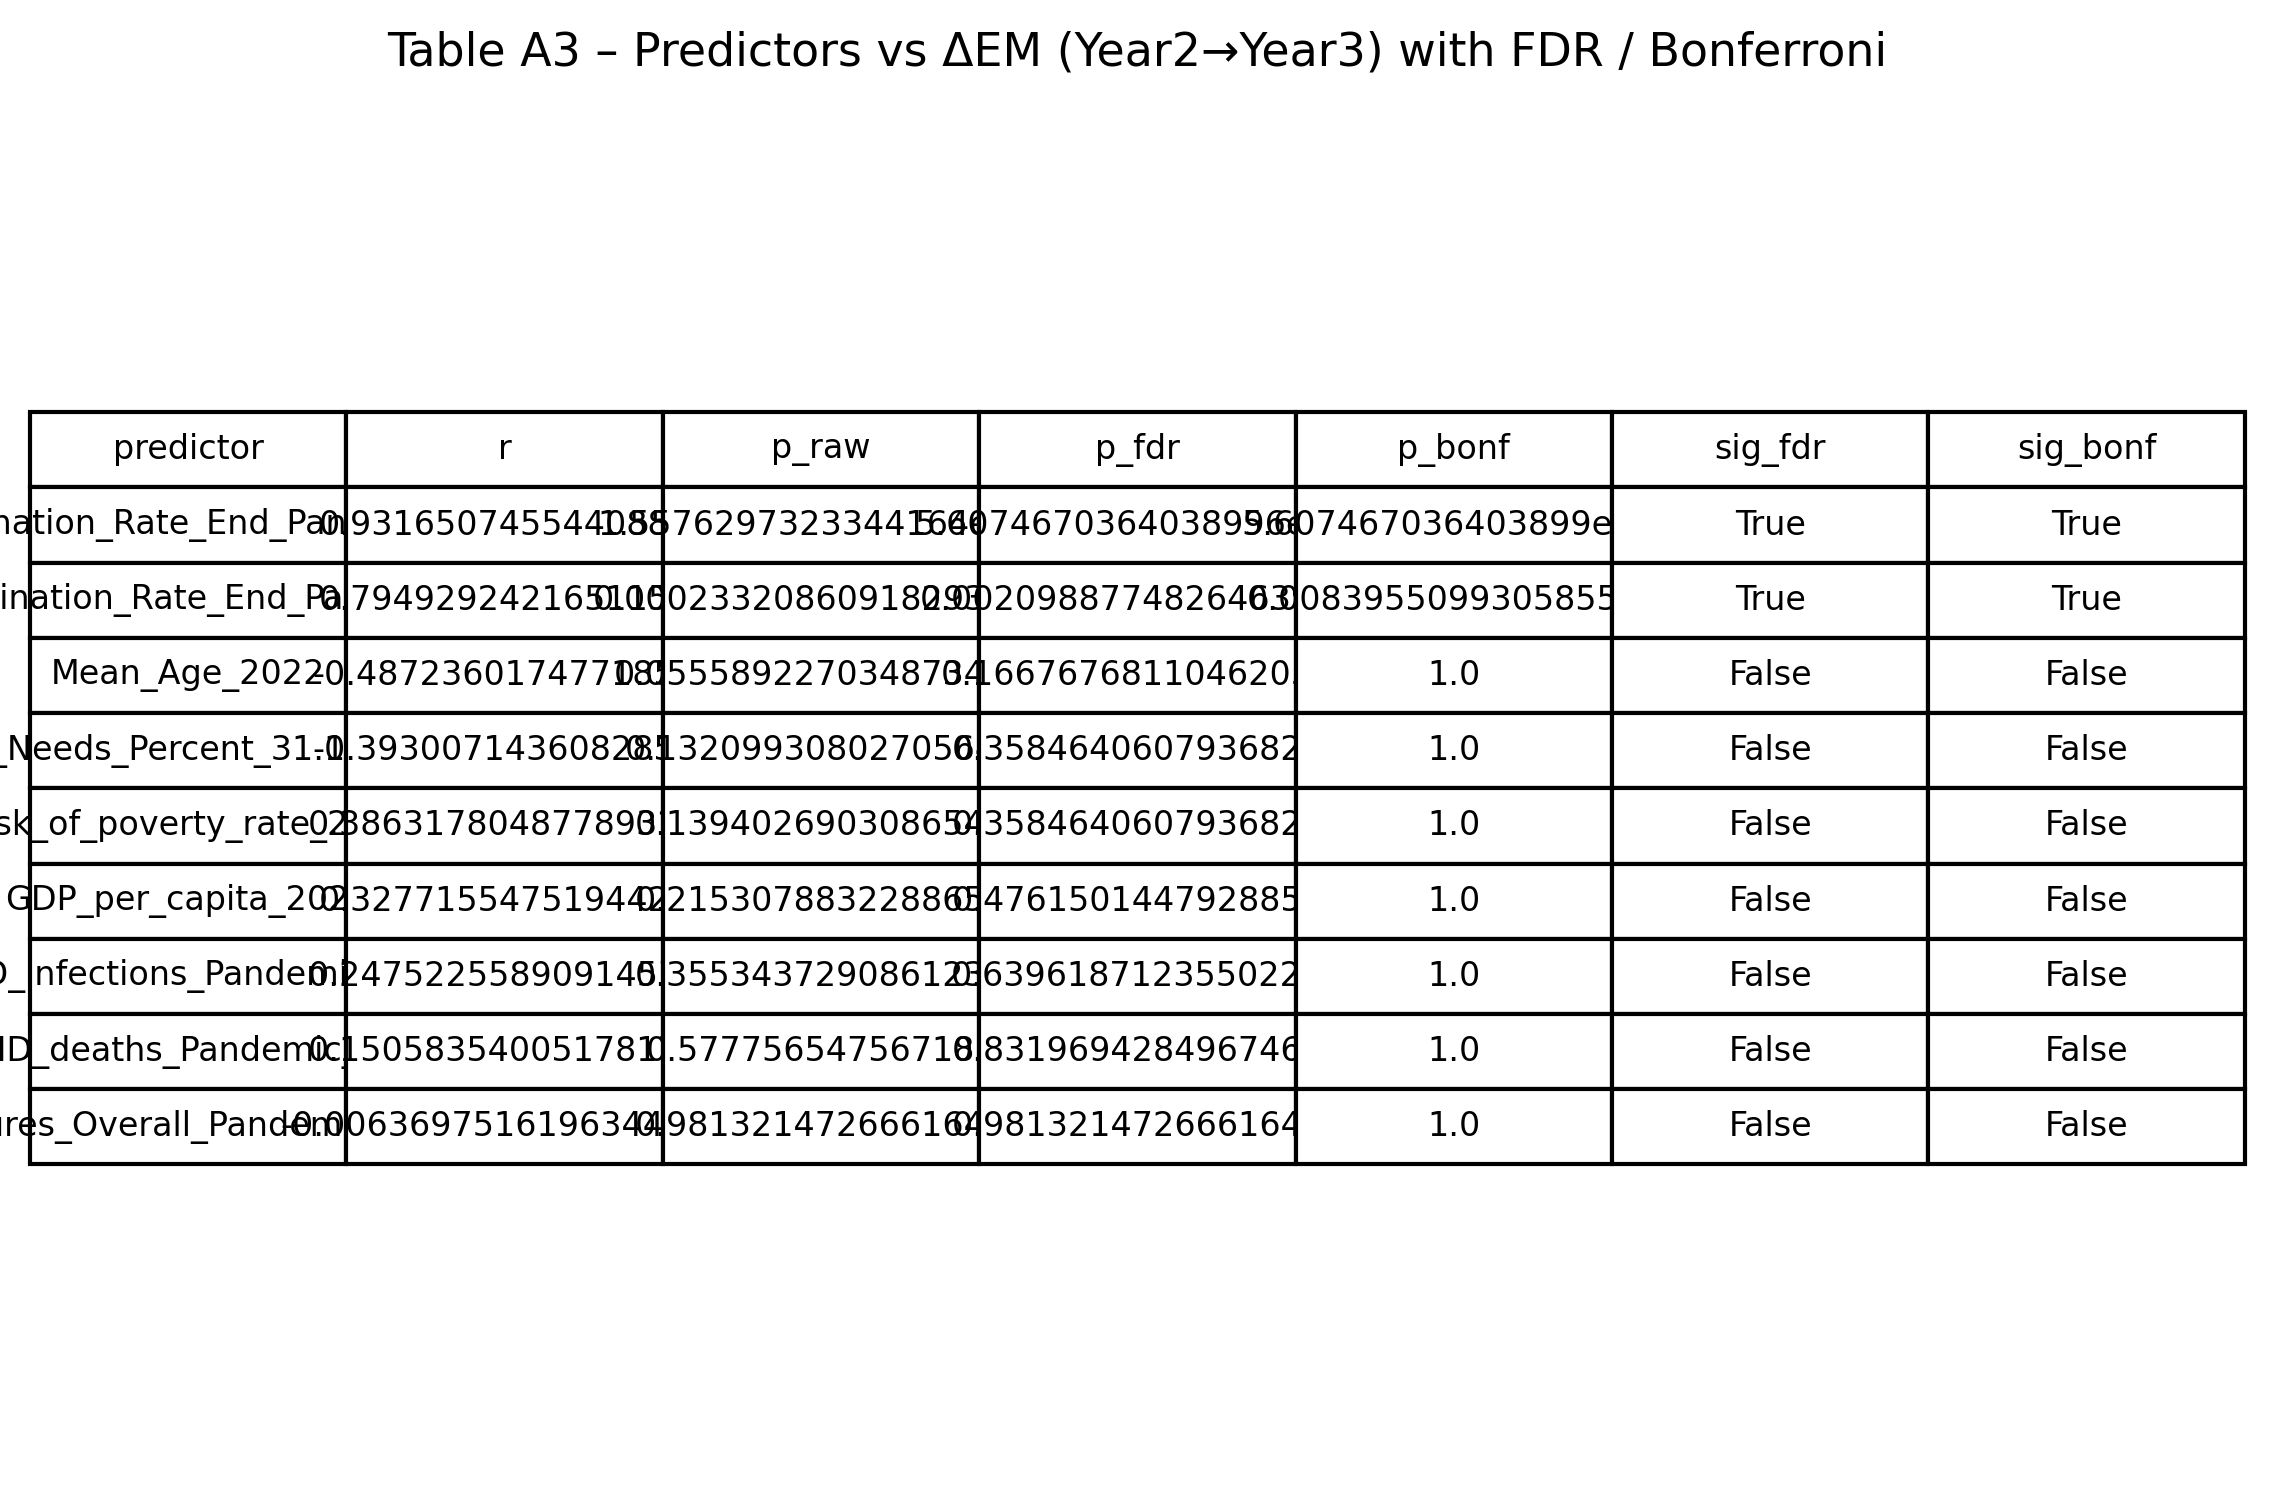
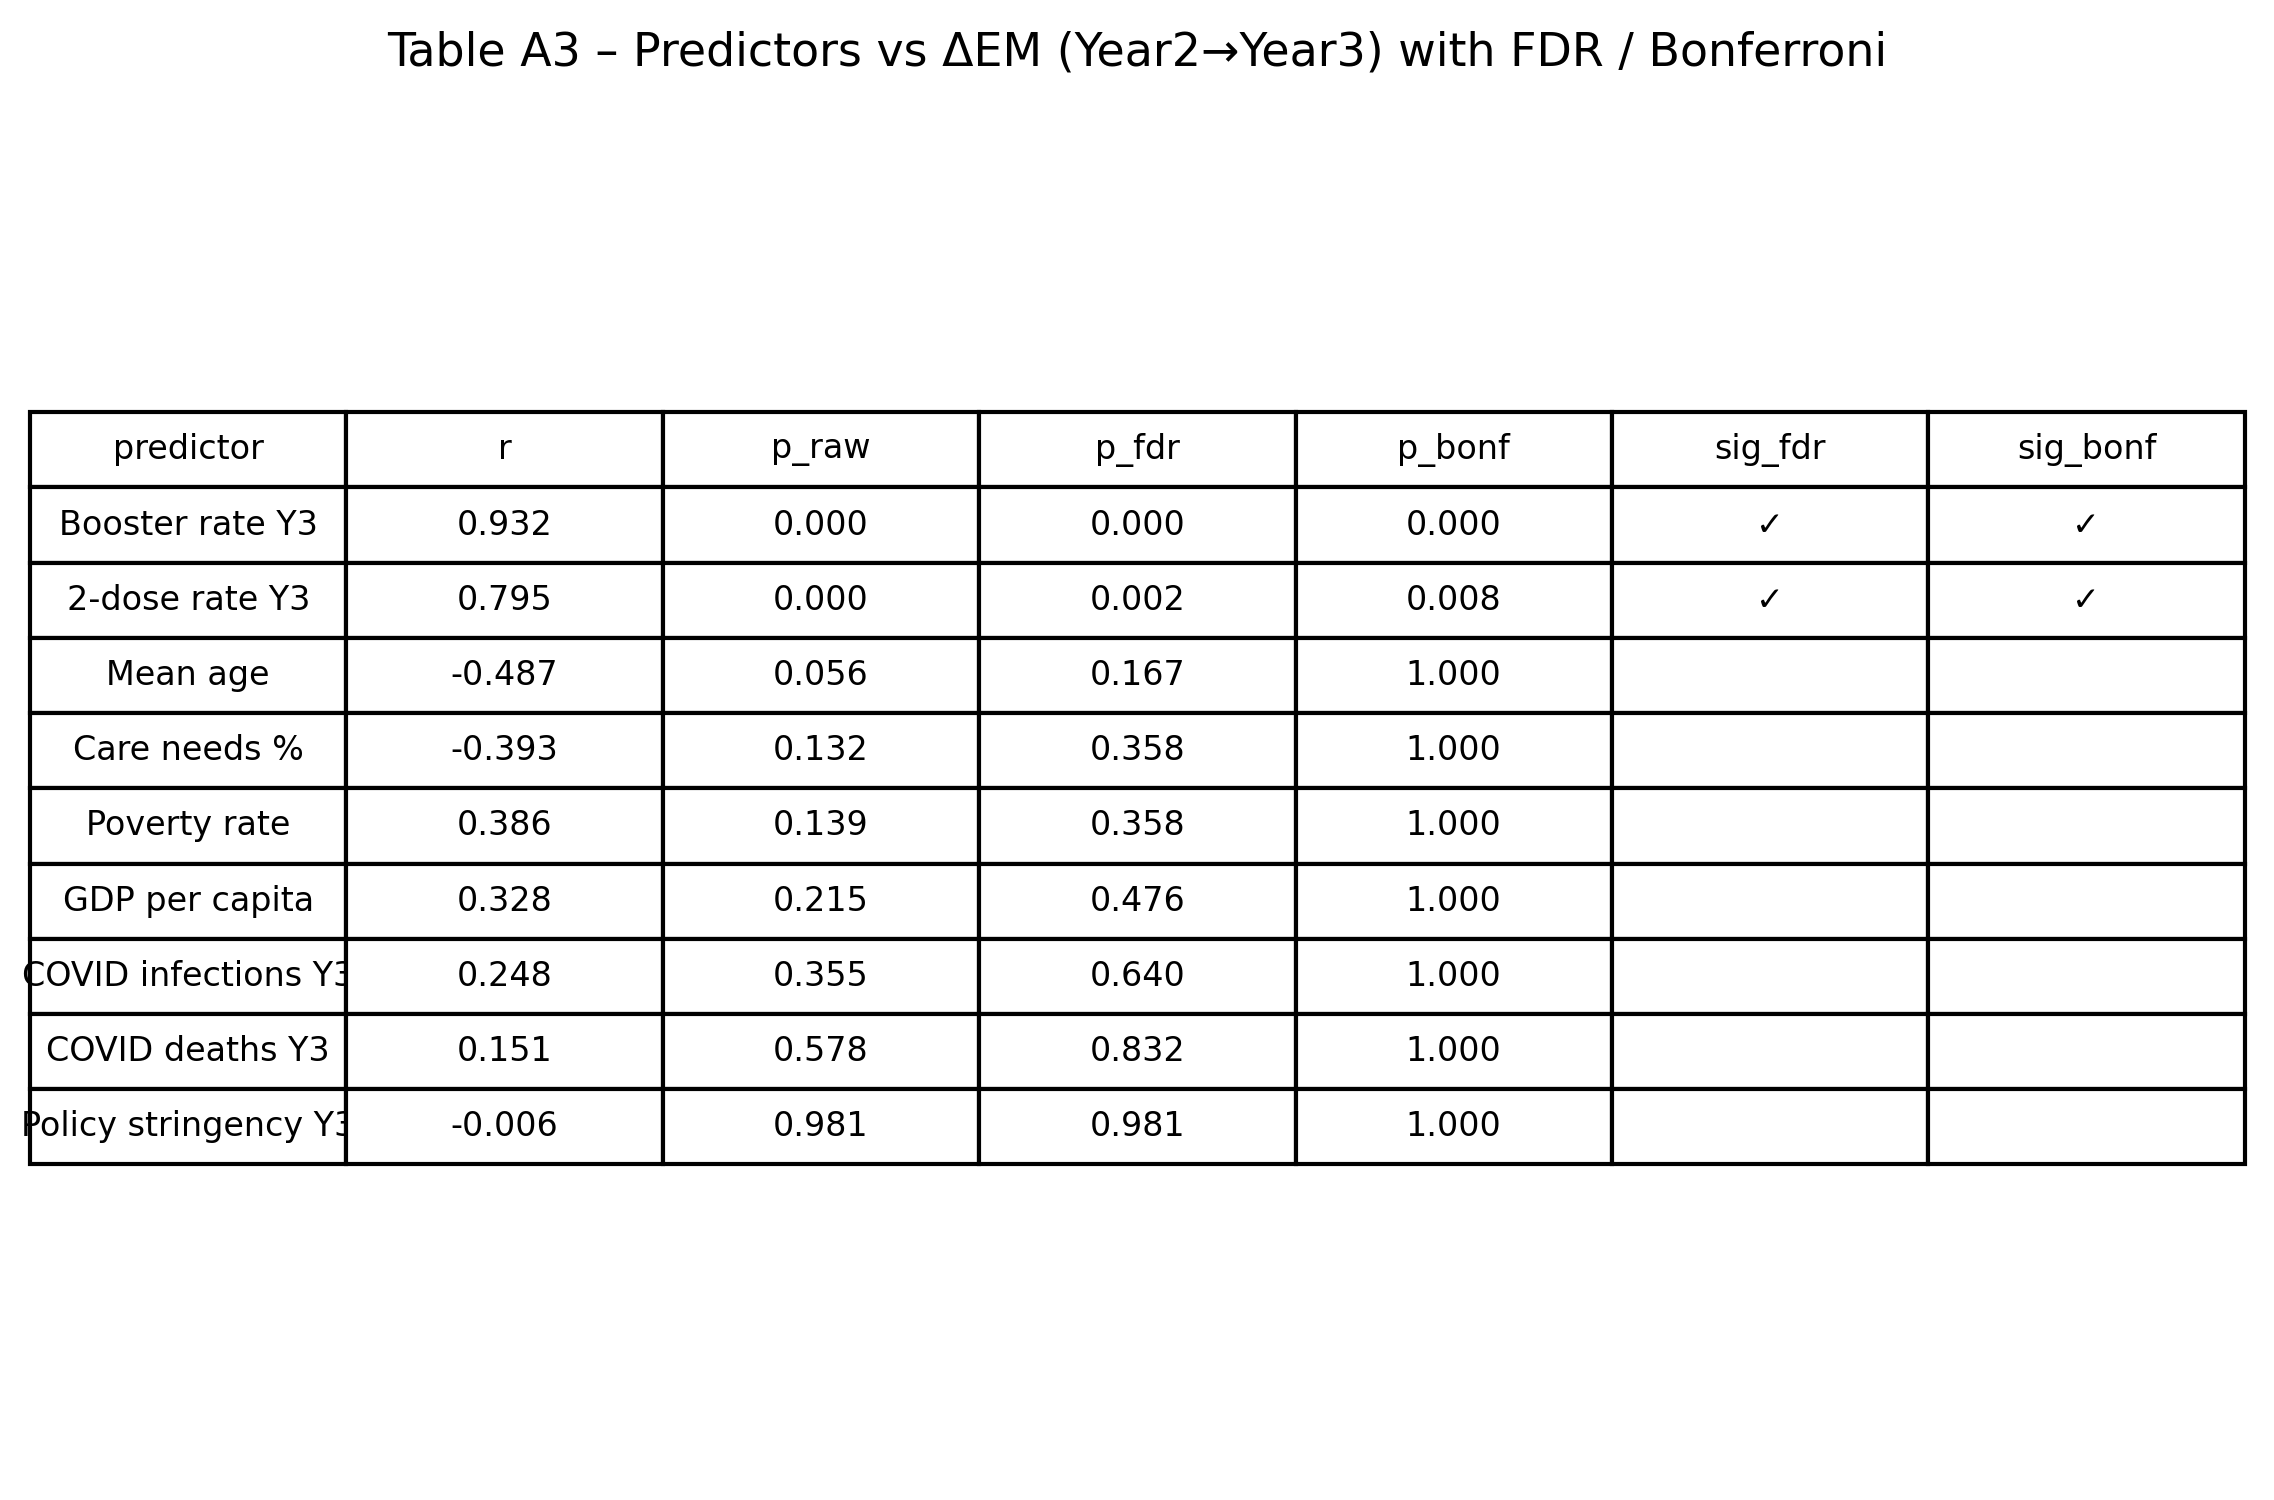
# Please enter the commit message for your changes. Lines starting

diff --git a/notebooks/full_results/tables.md b/notebooks/full_results/tables.md
@@ -19,14 +19,15 @@
 
 ## Predictors vs ΔEM (Year2→Year3) with FDR / Bonferroni
 
-| predictor                                   |           r |       p_raw |       p_fdr |      p_bonf | sig_fdr   | sig_bonf   |
-|:--------------------------------------------|------------:|------------:|------------:|------------:|:----------|:-----------|
-| Third_Vaccination_Rate_End_Pandemic_Year_3  |  0.931651   | 1.55763e-07 | 5.60747e-06 | 5.60747e-06 | True      | True       |
-| Second_Vaccination_Rate_End_Pandemic_Year_3 |  0.794929   | 0.000233209 | 0.00209888  | 0.00839551  | True      | True       |
-| Mean_Age_2022                               | -0.487236   | 0.0555892   | 0.166768    | 1           | False     | False      |
-| Care_Needs_Percent_31.12.2021               | -0.393007   | 0.132099    | 0.358464    | 1           | False     | False      |
-| Risk_of_poverty_rate_2022                   |  0.386318   | 0.139403    | 0.358464    | 1           | False     | False      |
-| GDP_per_capita_2022                         |  0.327716   | 0.215308    | 0.47615     | 1           | False     | False      |
-| COVID_infections_Pandemic_Year3             |  0.247523   | 0.355344    | 0.639619    | 1           | False     | False      |
-| COVID_deaths_Pandemic_Year3                 |  0.150584   | 0.577757    | 0.831969    | 1           | False     | False      |
-| Measures_Overall_Pandemic_Year3             | -0.00636975 | 0.981321    | 0.981321    | 1           | False     | False      |
+| predictor            |      r |   p_raw |   p_fdr |   p_bonf | sig_fdr   | sig_bonf   |
+|:---------------------|-------:|--------:|--------:|---------:|:----------|:-----------|
+| Booster rate Y3      |  0.932 |   0     |   0     |    0     | ✓         | ✓          |
+| 2-dose rate Y3       |  0.795 |   0     |   0.002 |    0.008 | ✓         | ✓          |
+| Mean age             | -0.487 |   0.056 |   0.167 |    1     |           |            |
+| Care needs %         | -0.393 |   0.132 |   0.358 |    1     |           |            |
+| Poverty rate         |  0.386 |   0.139 |   0.358 |    1     |           |            |
+| GDP per capita       |  0.328 |   0.215 |   0.476 |    1     |           |            |
+| COVID infections Y3  |  0.248 |   0.355 |   0.64  |    1     |           |            |
+| COVID deaths Y3      |  0.151 |   0.578 |   0.832 |    1     |           |            |
+| Policy stringency Y3 | -0.006 |   0.981 |   0.981 |    1     |           |            |
+
